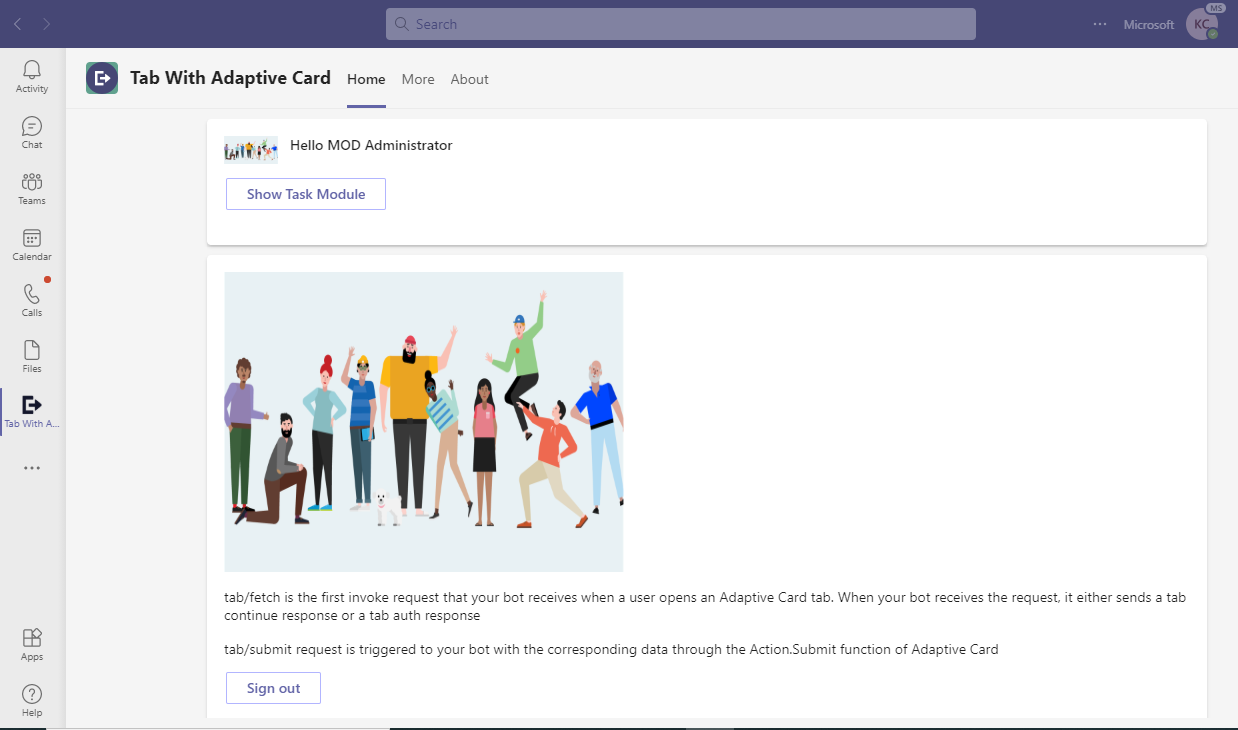
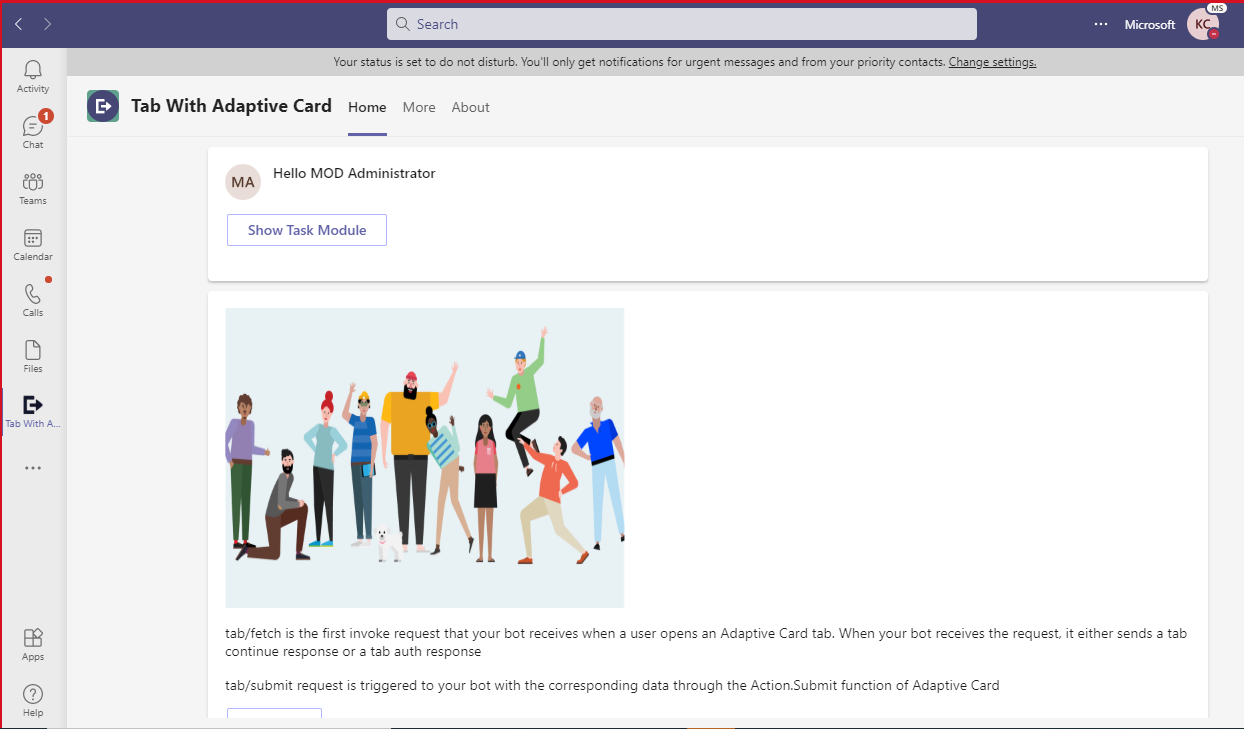
Updated Image and Added user profile photo

diff --git a/samples/tab-adaptive-cards/csharp/TabWithAdpativeCardFlow/SimpleGraphClient.cs b/samples/tab-adaptive-cards/csharp/TabWithAdpativeCardFlow/SimpleGraphClient.cs
@@ -32,11 +32,36 @@ namespace TabWithAdpativeCardFlow
             return await graphClient.Me.Request().GetAsync();
         }
 
-        //Fetching user's photo 
-        public async Task<Stream> GetUserPhoto()
+        //Fetching public url of user profile photo
+        public async Task<string> GetPublicURLForProfilePhoto(string applicationBaseUrl)
         {
             var graphClient = GetAuthenticatedClient();
-            return await graphClient.Me.Photo.Content.Request().GetAsync();
+            try
+            {
+                var stream = await graphClient.Me.Photo.Content
+                            .Request()
+                            .GetAsync();
+
+                var fileName = "ProflePhoto.png";
+                string imagePath = Path.Combine(".", "wwwroot", "photos");
+
+                if (!System.IO.Directory.Exists(imagePath))
+                    System.IO.Directory.CreateDirectory(imagePath);
+
+                imagePath = Path.Combine(imagePath, fileName);
+
+                using (var fileStream = System.IO.File.Create(imagePath))
+                {
+                    stream.Seek(0, SeekOrigin.Begin);
+                    stream.CopyTo(fileStream);
+                }
+                return  $"{applicationBaseUrl}/photos/{fileName}";
+            }
+            catch (Exception ex)
+            {
+                Console.Write(ex);
+                return "http://adaptivecards.io/content/cats/1.png";
+            }
         }
 
         // Get an Authenticated Microsoft Graph client using the token issued to the user.

diff --git a/samples/tab-adaptive-cards/csharp/TabWithAdpativeCardFlow/Bots/ActivityBot.cs b/samples/tab-adaptive-cards/csharp/TabWithAdpativeCardFlow/Bots/ActivityBot.cs
@@ -24,10 +24,12 @@ namespace TabWithAdpativeCardFlow.Bots
     public class ActivityBot : TeamsActivityHandler
     {
         private readonly string _connectionName;
+        private readonly string _applicationBaseUrl;
 
         public ActivityBot(IConfiguration configuration)
         {
             _connectionName = configuration["ConnectionName"] ?? throw new NullReferenceException("ConnectionName");
+            _applicationBaseUrl = configuration["ApplicationBaseUrl"] ?? throw new NullReferenceException("ApplicationBaseUrl");
         }
 
         /// <summary>
@@ -77,7 +79,7 @@ namespace TabWithAdpativeCardFlow.Bots
 
                 var client = new SimpleGraphClient(tokenResponse.Token);
                 var profile = await client.GetUserProfile();
-                var photo = await client.GetUserPhoto();
+                var userPhoto = await client.GetPublicURLForProfilePhoto(_applicationBaseUrl);
 
                 return CreateInvokeResponse(new TabResponse
                 {
@@ -90,7 +92,7 @@ namespace TabWithAdpativeCardFlow.Bots
                             {
                                 new TabResponseCard
                                 {
-                                    Card = CardHelper.GetSampleAdaptiveCard1(profile.DisplayName)
+                                    Card = CardHelper.GetSampleAdaptiveCard1(userPhoto, profile.DisplayName)
                                 },
                                 new TabResponseCard
                                 {

diff --git a/samples/tab-adaptive-cards/csharp/TabWithAdpativeCardFlow/Helpers/CardHelper.cs b/samples/tab-adaptive-cards/csharp/TabWithAdpativeCardFlow/Helpers/CardHelper.cs
@@ -18,7 +18,7 @@ namespace TabWithAdpativeCardFlow.Helpers
         /// <summary>
         /// Sample Adaptive card to show in tab.
         /// </summary>
-        public static AdaptiveCard GetSampleAdaptiveCard1(string displayName)
+        public static AdaptiveCard GetSampleAdaptiveCard1(string profilePhoto, string displayName)
         {
             AdaptiveCard card = new AdaptiveCard(new AdaptiveSchemaVersion("1.2"))
             {
@@ -35,8 +35,9 @@ namespace TabWithAdpativeCardFlow.Helpers
                                 {
                                     new AdaptiveImage
                                     {
-                                        Url = new Uri("https://cdn.vox-cdn.com/thumbor/Ndb49Uk3hjiquS041NDD0tPDPAs=/0x169:1423x914/fit-in/1200x630/cdn.vox-cdn.com/uploads/chorus_asset/file/7342855/microsoftteams.0.jpg"),
-                                        Size = AdaptiveImageSize.Medium,
+                                        Url = new Uri(profilePhoto),
+                                        Style = AdaptiveImageStyle.Person,
+                                        Size = AdaptiveImageSize.Small,
                                     },
                                 },
                             },
